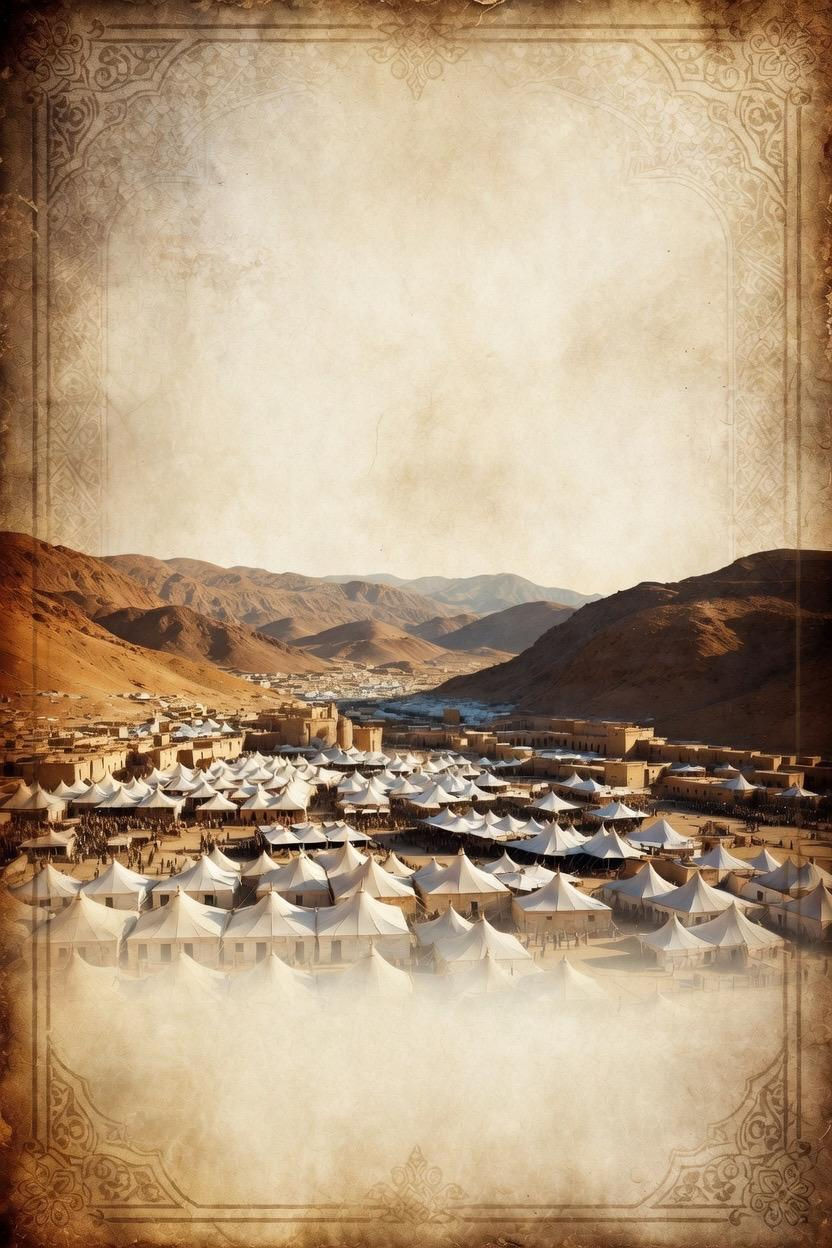
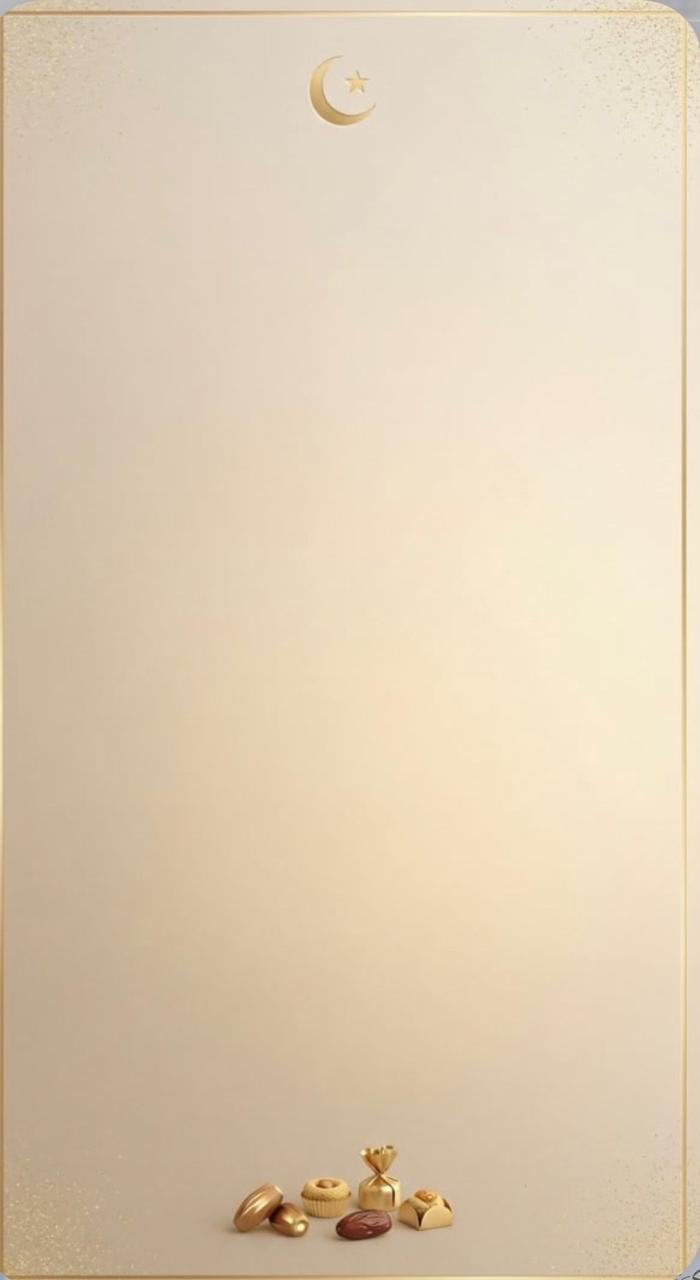
Fix : cards

diff --git a/eidcardop1.html b/eidcardop1.html
@@ -25,10 +25,6 @@
         <img src="eiddesignop41.png" onclick="selectDesign(this)">
         <img src="eiddesignop51.png" onclick="selectDesign(this)">
         <img src="eiddesignop61.png" onclick="selectDesign(this)">
-        <img src="eiddesignop71.png" onclick="selectDesign(this)">
-        <img src="eiddesignop81.png" onclick="selectDesign(this)">
-        <img src="eiddesignop91.png" onclick="selectDesign(this)">
-        <img src="eiddesignop101.png" onclick="selectDesign(this)">
       </div>
     </section>
 